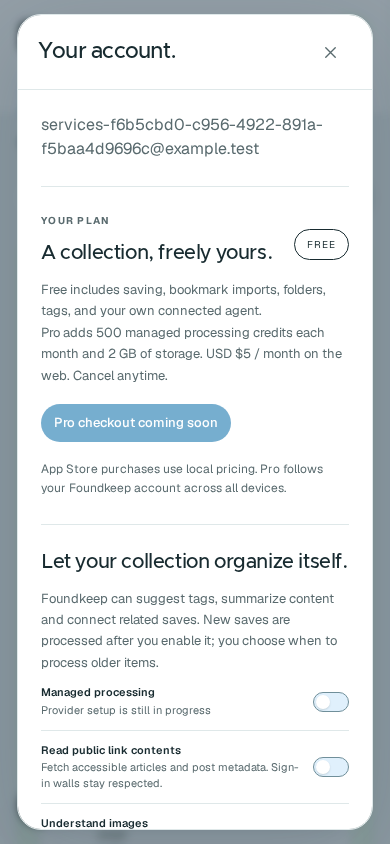
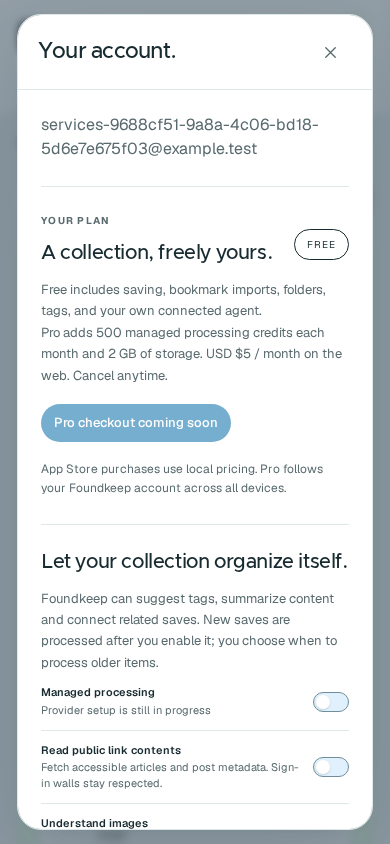
Scope sandbox billing to test accounts and prepare the extension review kit

Changed region(s): [[0.0923, 0.1232, 0.8308, 0.1848]]

diff --git a/apps/backend/src/customer-billing.ts b/apps/backend/src/customer-billing.ts
@@ -27,6 +27,7 @@ function equalSecret(a:string,b:string) { const x=Buffer.from(a); const y=Buffer
 const billingOperations = new WeakMap<Database, Map<string, Promise<unknown>>>();
 export function createBillingService(db:Database, env:Environment=process.env, fetcher:(input:string|URL|Request,init?:RequestInit)=>Promise<Response>=fetch) {
   const rc={ entitlement:env.REVENUECAT_ENTITLEMENT_ID||'pro', product:env.REVENUECAT_MONTHLY_PRODUCT_ID||'app.foundkeep.pro.monthly', allowSandbox:env.REVENUECAT_ALLOW_SANDBOX==='true' };
+  const sandboxAccounts=new Set((env.REVENUECAT_SANDBOX_ACCOUNT_IDS||'').split(',').map(value=>value.trim()).filter(Boolean));
   const publicKey=/^appl_[A-Za-z0-9]+$/.test(env.REVENUECAT_IOS_PUBLIC_KEY||'') ? env.REVENUECAT_IOS_PUBLIC_KEY! : null;
   const rcAvailable=!!(publicKey && env.REVENUECAT_SECRET_KEY && env.REVENUECAT_WEBHOOK_AUTH);
   const stripe=env.STRIPE_SECRET_KEY ? new Stripe(env.STRIPE_SECRET_KEY,{ maxNetworkRetries:1,timeout:15_000,httpClient:Stripe.createFetchHttpClient(fetcher as typeof fetch) }) : null;
@@ -61,7 +62,7 @@ export function createBillingService(db:Database, env:Environment=process.env, f
       if (!response.ok) moduleFail(503,'verification_pending','Your purchase is safe. Subscription verification is temporarily unavailable; try restoring again shortly.');
       let data:any; try { data=JSON.parse(await boundedText(response)); } catch { moduleFail(503,'verification_pending','Could not verify the subscription. Try again shortly.'); }
       if (!data?.subscriber || typeof data.subscriber!=='object') moduleFail(503,'verification_pending','Could not verify the subscription. Try again shortly.');
-      const snapshot=revenueCatSnapshot(data.subscriber,rc);
+      const snapshot=revenueCatSnapshot(data.subscriber,{...rc,allowSandbox:rc.allowSandbox||sandboxAccounts.has(accountId)});
       writeSubscription(db,accountId,'revenuecat',snapshot);
       if(snapshot.status==='active' && owned.checkout_id){
         if(!stripe)moduleFail(503,'verification_pending','An existing web checkout needs reconciliation.');

diff --git a/apps/backend/test/customer-billing.test.ts b/apps/backend/test/customer-billing.test.ts
@@ -182,3 +182,10 @@ test('stale purchase cancellation cannot remove a newer restore reservation',asy
  await service.cancelMobilePurchase(id,first.purchaseAttemptId!);await service.cancelMobilePurchase(id,first.purchaseAttemptId!);
  expect(db.query('SELECT id FROM customer_purchase_attempts WHERE account_id=?').all(id)).toEqual([{id:restored.purchaseAttemptId}]);
 });
+
+test('production sandbox purchases grant Pro only to explicitly allowed test accounts',async()=>{
+ const other=crypto.randomUUID();db.query("INSERT INTO customer_accounts(id,email,name,password_hash,recovery_hash,created_at) VALUES(?,?,'Other','','',0)").run(other,other+'@example.test');
+ const service=createBillingService(db,{REVENUECAT_SECRET_KEY:'secret',REVENUECAT_SANDBOX_ACCOUNT_IDS:id},async()=>Response.json({subscriber:subscriber({is_sandbox:true})}));
+ await service.syncRevenueCat(id);await service.syncRevenueCat(other);
+ expect(accountPlan(db,id).pro).toBe(true);expect(accountPlan(db,other).pro).toBe(false);
+});

diff --git a/deploy/STORE_LISTING.md b/deploy/STORE_LISTING.md
@@ -1,8 +1,8 @@
 # Foundkeep — Chrome Web Store submission
 
-Build with `bash deploy/pack-store.sh`, then upload `deploy/dist/foundkeep-store-1.0.0.zip` in the Chrome Web Store developer dashboard. Google publisher access and review are required; creating this archive does not publish it.
+Build with `bash deploy/pack-store.sh`, then upload `deploy/dist/foundkeep-store-1.0.1.zip` in the Chrome Web Store developer dashboard. Google publisher access and review are required; creating this archive does not publish it.
 
-The store archive removes the self-hosted `key` and `update_url`. Google assigned Store extension ID `cficnecbdbiddngllpfbacabgbcjinmk`; it is allowed by the dashboard and backend alongside the established self-hosted ID during migration. Keep `storeUrl` unset until the approved listing is publicly installable, then use its final public Chrome Web Store URL.
+The store archive removes the self-hosted `key` and `update_url`. Google assigned Store extension ID `cficnecbdbiddngllpfbacabgbcjinmk`; it is allowed by the dashboard and backend alongside the established self-hosted ID during migration. The existing listing is live; this archive updates that item after Google review.
 
 ## Listing
 
@@ -23,7 +23,9 @@ Foundkeep gives the good things you find on the web a place to stay.
 - Capture a region or full page, keep highlighted text, save a link or image, and write quick notes.
 - Create a Foundkeep account and connect the browser from the dashboard.
 - Save locally first and sync new captures to a private online library when automatic sync is enabled.
-- Search and filter your library and open the original source record for a saved page.
+- Search and filter your library in the browser sidebar and open the original source record for a saved page.
+- Import bookmarks and nested folders from the current browser or an HTML export, with original links and dates preserved.
+- Connect your own MCP-compatible agent from the dashboard with optional, revocable access.
 - Control capture methods, page details, popup layout, context menus, sync, OCR, summaries, and tags without reinstalling.
 - Keep offline saves on the device until a connection is available.
 - Export cloud captures, revoke connected browsers, change the password, or delete the account from settings.
@@ -32,7 +34,7 @@ An account is optional for local capture. Existing local captures stay on the de
 
 Saved pages can include readable text, headings, visited and canonical URLs, title, description, publisher, author, publication and modification dates, language, lead image, favicon, capture method, timestamps, extraction status, and a content fingerprint. Foundkeep does not store raw page HTML.
 
-Cloud accounts include up to 1,000 captures and 200 MiB of content. Customers save a one-time recovery code because Foundkeep does not send password-reset email. English screenshot text recognition is available when OCR is enabled.
+Free cloud accounts include up to 10,000 captures and 200 MiB of content, subject to overall service capacity. Customers save a one-time recovery code because Foundkeep does not send password-reset email. English screenshot text recognition is available when OCR is enabled.
 
 **Homepage:** https://foundkeep.app
 
@@ -81,7 +83,7 @@ The customer extension has no debugger permission, browser-control overlay, adve
 - Select **Location**: the request IP address is used only in a short-lived in-memory rate-limit key to protect account and upload endpoints. Foundkeep does not request device location.
 - Select **Web history**: the URL, title and source metadata of a page only when the customer explicitly saves or captures it.
 - Select **Website content**: customer-selected readable page text, screenshots, images, highlights and notes.
-- Do not select financial/payment information, health information, personal communications or user activity; Foundkeep does not collect them as separate data categories or monitor browsing behavior.
+- Select **Financial and payment information** for optional Pro subscription status and purchase history associated with the connected account. Apple/RevenueCat and Stripe handle payment processing; the extension does not collect raw card numbers. Do not select health information, personal communications or user activity as separately collected categories; Foundkeep does not monitor browsing behavior.
 
 Certify all Limited Use statements. Privacy policy URL: `https://foundkeep.app/privacy`.
 
@@ -92,10 +94,10 @@ The cloud product processes account name/email, capture preferences, customer-sa
 ## Distribution and reviewer instructions
 
 - Visibility: **Public**.
-- Pricing: **Free**.
+- Pricing: **Free** extension, with optional paid account processing when configured.
 - Regions: all supported Chrome Web Store regions.
 - Publishing: publish automatically after review approval.
-- Test instructions: use the dedicated reviewer credential from the private release artifact. Install the extension, sign in at `https://foundkeep.app/auth.html?mode=login`, choose **Connect this browser**, then open any ordinary HTTP(S) article and choose **Save page**. Open the dashboard to verify the synced capture, stored article details and original-source record. The pre-seeded account contains three harmless samples and no administrative access.
+- Test instructions: use the dedicated reviewer credential from the private release artifact. Install the extension, sign in at `https://foundkeep.app/login`, choose **Connect this browser**, then open any ordinary HTTP(S) article and choose **Save page**. Open the dashboard to verify the synced capture, stored article details and original-source record. The pre-seeded account contains three harmless samples and no administrative access.
 
 ## Submission assets and verification
 
@@ -105,9 +107,9 @@ The cloud product processes account name/email, capture preferences, customer-sa
 - Browser setup: `deploy/dist/store-assets/customer-browser-setup.png`
 - Small promo tile: `deploy/dist/store-assets/promo-small.png`
 - Marquee promo tile: `deploy/dist/store-assets/promo-marquee.png` (optional)
-- Verify the archive reports version `1.0.0` and contains no `.pem`, `.key`, `key`, `update_url`, browser-control, agent, relay, companion, or development-only files.
+- Verify the archive reports version `1.0.1` and contains no `.pem`, `.key`, `key`, `update_url`, browser-control, agent, relay, companion, or development-only files.
 - Test signup, pairing, readable-page capture, sync, provenance, preference refresh, export, revoke, and deletion from the final store build after its assigned ID is allowed.
 - Paste the dedicated account from the private `REVIEWER-CREDENTIALS-1.0.0.md` launch artifact into **Test instructions**; follow `deploy/STORE_REVIEWER_GUIDE.md` for the exact review path.
 - Keep executable changes on the reviewed store channel. Foundkeep fetches validated JSON preferences only and never downloads or executes remote code; see `docs/extension-configuration-and-updates.md`.
 
-Until Google approves the listing, public onboarding must continue to label the ZIP as a manual Developer mode installation.
+Keep the existing public Store link. Label the ZIP as a manual Developer mode installation; new sidebar/import permissions arrive through the reviewed 1.0.1 update.

diff --git a/docs/superpowers/plans/2026-09-12-agentic-collections.md b/docs/superpowers/plans/2026-09-12-agentic-collections.md
@@ -28,7 +28,7 @@ Interfaces: `parseBookmarkHtml(html) -> {entries,warnings}`, `flattenBookmarkTre
 - [x] Test account boundaries, replay and changed-payload conflict, existing-save deduplication, folder paths, and quota rollback.
 - [x] Implement parser, migration, account-scoped import transactions, and optional-permission import UI with durable chunk progress.
 - [ ] Run `node --test tests/bookmark-import.mjs` and `bun test apps/backend/test/customer-imports.test.ts`; inspect a real packaged extension import.
-- [ ] Commit the integrated release after cross-client verification.
+- [x] Commit the integrated release after cross-client verification.
 
 ## 2. Sidebar and popup
 
@@ -40,7 +40,7 @@ Interfaces: allowlisted `library-*` messages proxy typed collection, organizatio
 - [x] Implement the compact sidebar and quick-save popup using existing Foundkeep fonts/tokens, source labels, restrained motion, and keyboard controls.
 - [x] Test spoofed senders, path injection, account switches during requests, denied permission, and popup-height constraints.
 - [ ] Inspect light/dark sidebar at 320/400/600 px and popup at Chromium's height limit; build both extension distribution archives.
-- [ ] Include the extension in the integrated release commit.
+- [x] Include the extension in the integrated release commit.
 
 ## 3. Hosted processing
 
@@ -52,7 +52,7 @@ Interfaces: `enqueueProcessing(accountId,captureId,reason)`; lease-based queue; 
 - [x] Implement the server-only OpenAI Responses adapter, account controls, usage/activity, and worker integration.
 - [x] Add bounded webpage/social extraction and non-destructive supported media derivatives with public-network and native-process tests.
 - [ ] Verify provider requests using fake transports, then perform a small real call when the secure operator key is supplied.
-- [ ] Include processing in the integrated release commit.
+- [x] Include processing in the integrated release commit.
 
 ## 4. Customer MCP
 
@@ -63,7 +63,7 @@ Interfaces: scoped revocable agent tokens, `/api/mcp` JSON-RPC tools/resources, 
 - [x] Test initialization/tool discovery, read-only/write grants, other-account IDs, expired/revoked tokens, change pagination/deletions, file bounds, and stale edit conflicts.
 - [x] Implement account connection UI with one-time token display, copyable MCP configuration, change-driven runner instructions, activity, and revocation.
 - [x] Exercise the endpoint with a real MCP client against an isolated account.
-- [ ] Include MCP in the integrated release commit.
+- [x] Include MCP in the integrated release commit.
 
 ## 5. Pro billing and release
 
@@ -73,8 +73,8 @@ Interfaces: server checkout/portal sessions; signed webhook event ingestion with
 
 - [x] Test signed/unsigned and replayed webhooks, out-of-order subscription updates, customer mapping, cancellation, failed payments, and client-selected price/redirect rejection.
 - [x] Implement USD 5/month checkout, portal, plan controls and honest unavailable states without configured keys.
-- [ ] Complete cross-client checks, migration backup/upgrade checks, production packaging and account-safe deployment.
-- [ ] Prepare the required Chrome Store update; document external account/credential blockers precisely if any remain.
+- [x] Complete web/extension checks, migration backup/upgrade checks, production packaging and account-safe deployment; native build is tracked below.
+- [x] Prepare the required Chrome Store update and submission kit; document external account/credential blockers.
 
 ## RevenueCat addition and release checkpoint
 
@@ -85,8 +85,8 @@ Interfaces: server checkout/portal sessions; signed webhook event ingestion with
 - [x] Build the production Next site; verify web/backend/mobile TypeScript; inspect desktop/phone account controls.
 - [x] Back up production schema 14 and trial schema 23; original account/capture/session/connection rows remain byte-identical. The backup already contains one orphan connection FK; the migration introduces none.
 - [x] Finish installed-extension import smoke and package final archives.
-- [ ] Deploy the reviewed backend/site and verify the live domain.
+- [x] Deploy the reviewed backend/site and verify the live domain.
 - [ ] Build and upload a fresh native binary using personal Expo owner notpritam.
 - [ ] Configure OpenAI, Stripe and RevenueCat/Apple products, then run real provider/sandbox purchases. These keys/products are not supplied yet.
 
-Verified before integration: 180 backend tests, 59 extension tests, 60 mobile tests; installed Chromium capture/import flow and account-control browser flow; backend/site/mobile TypeScript; production Next build. Code review closed all reported important findings. Real optional permission grant and StoreKit sandbox payment remain device/provider checks.
+Verified before integration: 181 backend tests, 59 extension tests, 60 mobile tests; installed Chromium capture/import flow and account-control browser flow; backend/site/mobile TypeScript; production Next build. Code review closed all reported important findings. Real optional permission grant and StoreKit sandbox payment remain device/provider checks.

diff --git a/docs/REVENUECAT-SETUP.md b/docs/REVENUECAT-SETUP.md
@@ -39,7 +39,8 @@ Provide these through the private server environment, never a committed file or 
 | `REVENUECAT_WEBHOOK_AUTH` | A new random authorization string, identical to the webhook configuration |
 | `REVENUECAT_ENTITLEMENT_ID` | `pro` |
 | `REVENUECAT_MONTHLY_PRODUCT_ID` | `app.foundkeep.pro.monthly` |
-| `REVENUECAT_ALLOW_SANDBOX` | `true` only in the test environment; default `false` |
+| `REVENUECAT_ALLOW_SANDBOX` | `true` only in an isolated test environment; default `false` |
+| `REVENUECAT_SANDBOX_ACCOUNT_IDS` | Optional comma-separated Foundkeep account IDs allowed to verify TestFlight purchases on the production API; empty by default |
 
 The public SDK key is intentionally returned to the iPhone app. It is a publishable identifier, not a provider secret. The server secret, webhook authorization, OpenAI key, Supabase keys and Stripe secret never reach the app. The SDK's customer ID is a random `fk_…` identity mapped by our backend; it is not the account email or account UUID.
 
@@ -52,7 +53,7 @@ RevenueCat → Integrations → Webhooks → Add configuration:
 - Authorization header: exact value of `REVENUECAT_WEBHOOK_AUTH`
 - App: Foundkeep
 - Events: all subscription and transfer events
-- Environment: production; use a separate test backend/integration for sandbox purchase testing
+- Environment: production and sandbox when testing with explicitly allowlisted Foundkeep accounts; otherwise production only
 
 The endpoint authenticates the request, looks up known opaque identities, fetches the current RevenueCat subscriber state, and updates the shared Pro entitlement. It does not trust a client claim that a purchase succeeded. Repeated events are idempotent. Unknown customer IDs do not gain access.
 
@@ -62,7 +63,9 @@ Webhook instructions: https://www.revenuecat.com/docs/integrations/webhooks
 
 Build and install a fresh native binary under Expo owner **notpritam**, project **33362145-2b45-4d86-bb08-cd10c6bfae61**.
 
-On a sandbox-configured backend, test: sign in → You → Your plan → localized monthly offering → purchase → verified Pro. Restore after reinstalling; switch Foundkeep accounts during a pending action; leave web checkout open and start purchase/restore on iPhone; cancel one attempt while another restore is running; cancel renewal; allow sandbox expiration; test a refund/transfer event; verify the dashboard sees the same Pro state. Revoking a Foundkeep device must remove its account access. Deleting the app/account does not cancel Apple billing; the app points users to Apple subscription settings.
+The current app and native share extension use `https://foundkeep.app`. To test this binary, keep global sandbox access off and add only the dedicated test account IDs to `REVENUECAT_SANDBOX_ACCOUNT_IDS`. Include sandbox events in the webhook integration. Other production accounts still reject sandbox entitlements. Remove test access when testing ends. A separate staging backend requires a matching app/auth/share environment build; changing only the API URL is insufficient.
+
+With the test accounts configured, test: sign in → You → Your plan → localized monthly offering → purchase → verified Pro. Restore after reinstalling; switch Foundkeep accounts during a pending action; leave web checkout open and start purchase/restore on iPhone; cancel one attempt while another restore is running; cancel renewal; allow sandbox expiration; test a refund/transfer event; verify the dashboard sees the same Pro state. Revoking a Foundkeep device must remove its account access. Deleting the app/account does not cancel Apple billing; the app points users to Apple subscription settings.
 
 Update App Privacy with **Purchases / Purchase History**, linked to user, used for app functionality, not tracking. Existing account and user-content disclosures remain. The app includes an updated privacy manifest. Add the subscription to App Review and update the reviewer instructions before submission.
 

diff --git a/docs/extension-audit-1.0.1.md b/docs/extension-audit-1.0.1.md
@@ -1,0 +1,31 @@
+# Foundkeep extension 1.0.1 release audit
+
+Prepared 12 September 2026. This is the update to existing Chrome item `cficnecbdbiddngllpfbacabgbcjinmk`; the archive is prepared, not submitted to Google by this task.
+
+## Customer changes
+
+- Cloud collection sidebar with search, recent ordering, folders/tags, list/gallery, note creation and save editing.
+- Current-browser bookmark import with optional permission, plus HTML exports from other browsers. Immutable account-bound chunks resume after temporary failures; duplicates preserve manual edits and retain import provenance.
+- Dashboard Free/Pro settings, scoped MCP connections, revocation and owner instructions. These live on Foundkeep's backend and website, not as remote executable extension code.
+
+## Verification
+
+59 extension tests pass. An installed Chromium test signs up a disposable account, pairs the real service worker, changes preferences, captures readable page content, a highlight and a screenshot, imports a nested HTML export through the sidebar, reloads the collection, verifies original timestamps/folders/provenance, revokes the connection and confirms the local copy survives. Test accounts are removed.
+
+The installed test found and fixed a dynamic import that Chromium rejects in service workers; the sidebar API module now uses a static packaged import. Spoofed senders, arbitrary paths/origins, account changes during requests, denied bookmark permission and bounded import chunks have regression coverage.
+
+The backend has 181 passing tests, including ownership, quotas, migration compatibility, MCP SDK interoperability, processing consent/cancellation, file bounds and billing races. Type checks pass for web/backend/mobile. The production Next build passes. Public-domain account/MCP tests pass without browser runtime or hydration errors after adding `Cache-Control: no-transform` to private HTML.
+
+## Package and permissions
+
+Chrome Store version 1.0.1; source/self-hosted version 1.7.0. Store packaging strips signing/update fields and includes only the allowlisted customer extension files. The manifest description remains within 132 characters.
+
+New permissions are required `sidePanel` and optional `bookmarks`. The latter is requested only by the explicit import action. No browser bookmark is edited or deleted. Existing activeTab/scripting/contextMenus/storage/alarms, exact Foundkeep origins and optional selected-image origins retain their single-purpose uses.
+
+The HTML import path is verified in an installed browser. Granting the real native optional-permission prompt still requires a manual browser check; automated UI tests verify the denial path and browser-tree parsing. A store-approved binary and browser support determine side-panel availability; unsupported clients use a packaged tab.
+
+## External release steps
+
+Upload `foundkeep-store-1.0.1.zip` to the existing Google item, update the new permission/data disclosures, and follow `deploy/STORE_REVIEWER_GUIDE.md`. Google publisher access/review is required. Preserve the existing private reviewer credential; no credential is included in this repository or submission ZIP.
+
+Managed OpenAI processing and paid checkout remain disabled until operator credentials, RevenueCat/Apple products and provider webhooks are configured. Provider mocks validate the flow; live AI and sandbox payments have not been verified. The iPhone RevenueCat SDK requires a separate native build; compatible future UI updates can use its EAS fingerprint runtime.

diff --git a/docs/superpowers/specs/2026-09-12-agentic-collections-design.md b/docs/superpowers/specs/2026-09-12-agentic-collections-design.md
@@ -14,7 +14,7 @@ The sidebar is a packaged extension page: a compact brand/search/save header; Al
 
 Retain local capture, Free storage, original files, and existing basic extraction. Add a separate durable hosted-processing queue with leases, bounded retries, per-account allowance reservations, provider timeouts, structured-output validation, and an activity record. Account controls decide whether new saves receive hosted processing. Manual tags and source metadata are never replaced by model suggestions. Captured text and model responses are untrusted data; model calls have no execution tools.
 
-Use a server-configured OpenAI-compatible provider so a low-cost hosted GPT model or an operator-hosted open model can supply structured classification. Provider credentials, billing secrets, and provider URLs never enter extension/mobile/web bundles. Files are read only for their owner. Supported media derivatives retain the source file and use bounded native processes. Public webpage/social extraction uses the existing DNS-pinned request protection, bounded redirects, byte/time limits, and no customer browsing cookies. Inaccessible content is reported as unavailable, not fabricated.
+Use the server-only OpenAI Responses adapter with structured outputs and default model `gpt-4.1-mini`. Operators can choose another compatible GPT model through the server environment; adding an open-model provider requires a reviewed adapter. Provider credentials, billing secrets, and provider URLs never enter extension/mobile/web bundles. Files are read only for their owner. Supported media derivatives retain the source file and use bounded native processes. Public webpage/social extraction uses the existing DNS-pinned request protection, bounded redirects, byte/time limits, and no customer browsing cookies. Inaccessible content is reported as unavailable, not fabricated.
 
 ## Customer agents
 
